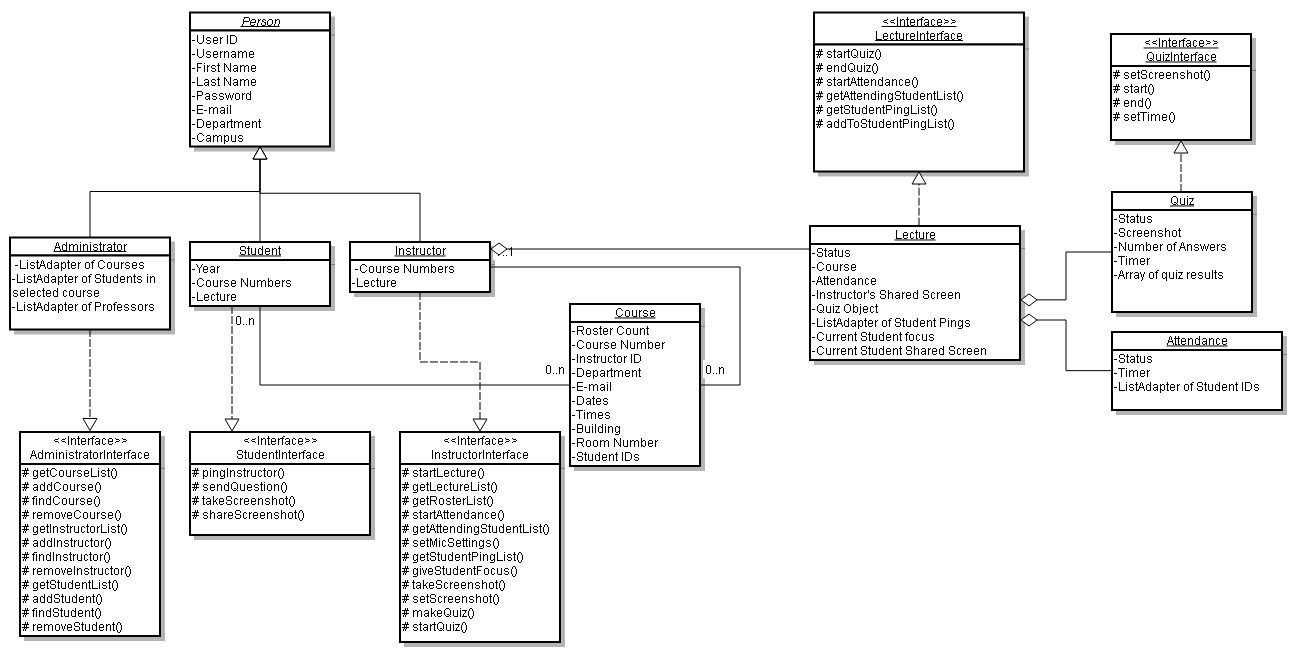
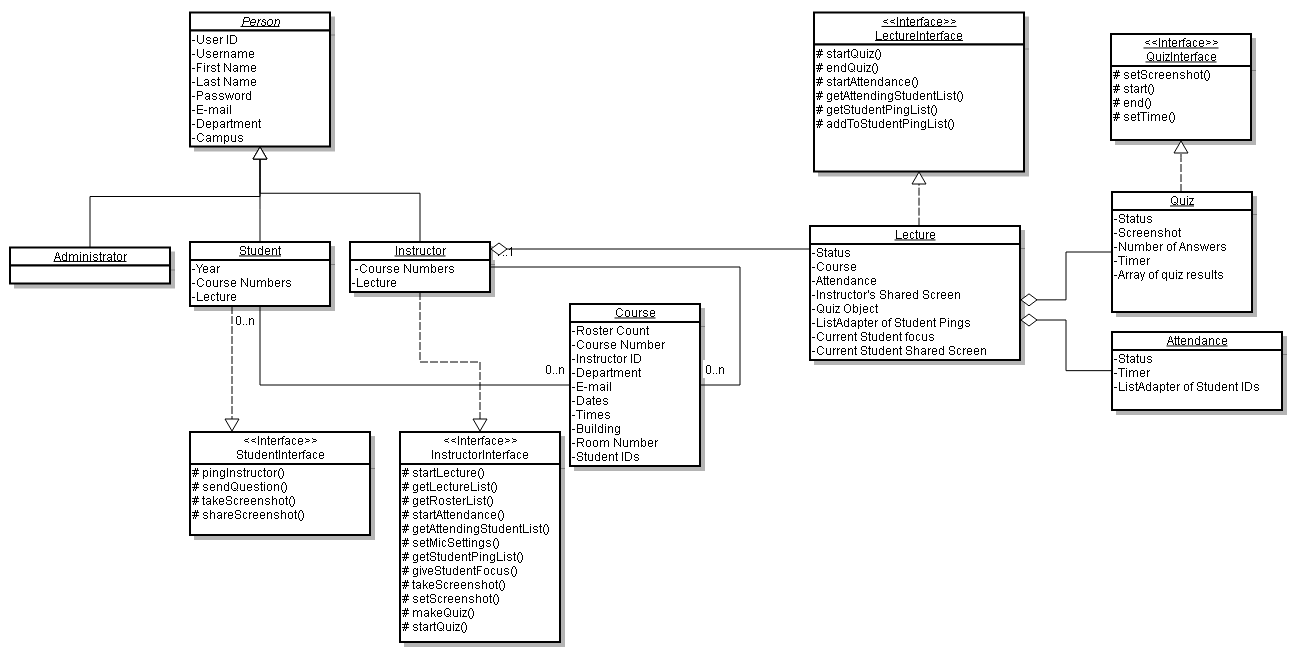
Minor changes. Step 4 took out administrator things since it's on web portal; LoginActivity has intent

Changed region(s): [[0.0, 0.6325, 0.1534, 0.9639], [0.0, 0.3313, 0.1534, 0.512]]

diff --git a/src/com/raiseyourhand/LoginActivity.java b/src/com/raiseyourhand/LoginActivity.java
@@ -81,6 +81,18 @@ public class LoginActivity extends Activity {
 					@Override
 					public void onClick(View view) {
 						attemptLogin();
+						
+						// Get the type of user login, assuming login was successful
+						
+						Intent loginIntent;
+						
+						// If student, set up intent for student's LectureListActivity
+						loginIntent = new Intent(this, com.raiseyourhand.student.LectureListActivity.class);
+						
+						// If instructor, set up intent for instructor's LectureListActivity
+						loginIntent = new Intent(this, com.raiseyourhand.instructor.LectureListActivity.class);
+						
+						// If administrator, set up intent for administrator stuff
 					}
 				});
 	}
